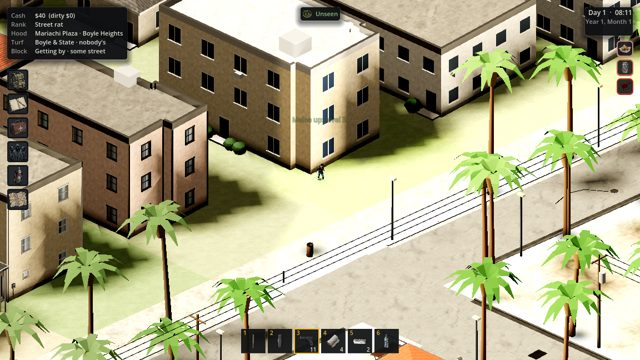
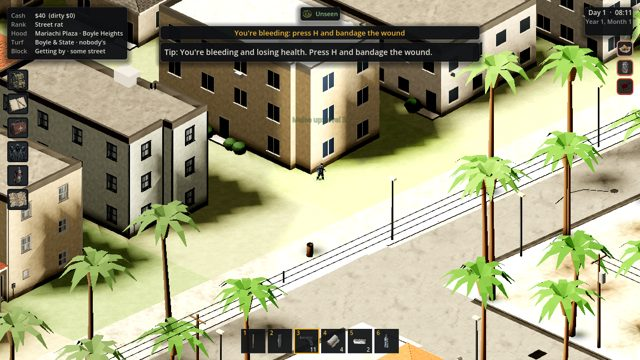
NX1/TP1: "next step" line and first-day tips
A gold line at the top of the screen now always says what to do next. A
new Street rat is told how many points the next rank needs and where the
nearest fixer is ("purple jacket, 350 m south-east"). On a job it shows
where to go and how many hours are left. Bleeding, starving, thirst or
exhaustion come first.

Short tips pop up under it the first time something happens: the start,
a fixer close by, getting hungry, thirsty or tired, bleeding, a cop
watching, the first evening, the first job. Each shows once and is saved
with the game, and the pause menu has a new "Tips: on/off" switch.

Checks: new verify_next_step PASS, scripts_parse PASS, full suite only
fails verify_sim_perf at the 08:00 worst tick. That failure exists on main
too (19.4 ms pass / 23.5 ms fail there), so it's logged as BUG-15. The tips
added ~15 ms per second at first (they searched all 6000 people for
fixers), now under 1 ms. Album: street_morning, pause_menu, hotbar
approved.

Claude-Session: https://claude.ai/code/session_01GhwX2iZQCrjFDTA2VqL7dk

diff --git a/BUGS.md b/BUGS.md
@@ -13,6 +13,7 @@ Severity: **high** = breaks a game or loses progress · **medium** = clearly wro
 
 | ID | Severity | What happens | Where | Found by |
 |----|----------|--------------|-------|----------|
+| BUG-15 | medium | At rush hour (08:00) one tick now and then takes 20-28 ms, a small stutter. It comes from the people's daily-routine planner (`NPCScheduleSystem`, up to 27 ms in one tick) when many people re-plan at once, on top of traffic (~11 ms). `verify_sim_perf` measures a real rush hour since BUG-13, so it now passes or fails by chance (main: 19.4 ms pass, 23.5 ms fail). Spread the re-plans over more ticks. | `core/systems/npc_schedule_system.gd` | `verify_sim_perf` |
 | BUG-9 | low (to check on Phil's PC) | In the shop (`--store` picture) a dark curved band runs across the shop floor, under the player. It could be a curved wall drawn at floor height, or a drawing glitch. | shop interior / cutaway | album `shop_counter` |
 | BUG-7 | low (to check on Phil's PC) | At night (22:00) the building walls are pitch black, so only the lit windows show and they seem to float. The server draws in OpenGL mode without the screen-space lighting Phil's PC has, so it may look fine there. | night lighting, `game_view_3d.gd` | album `street_night`, `3d_night` |
 
